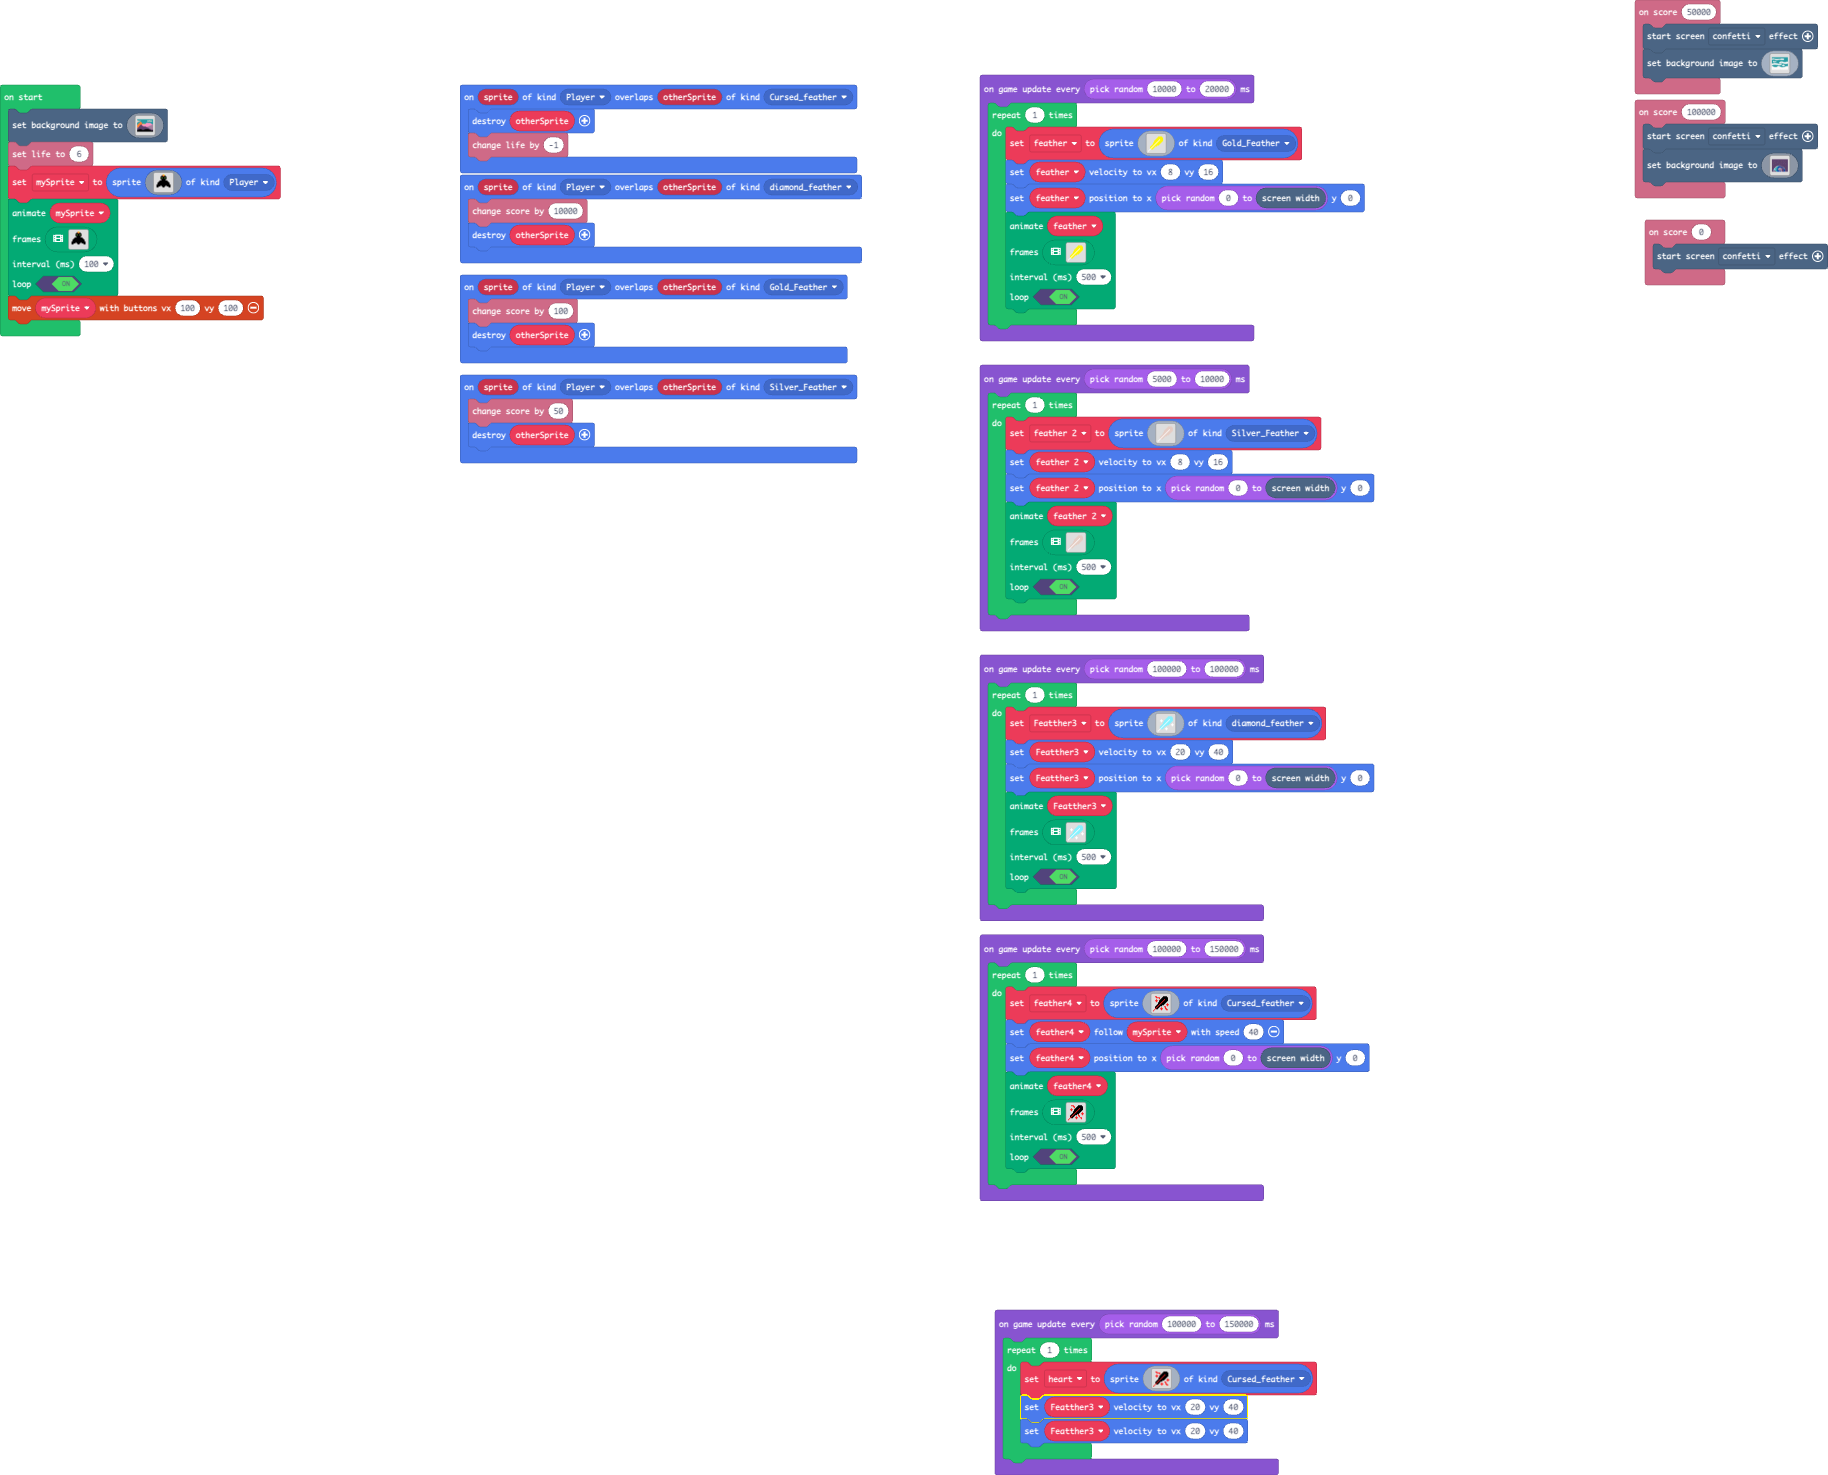
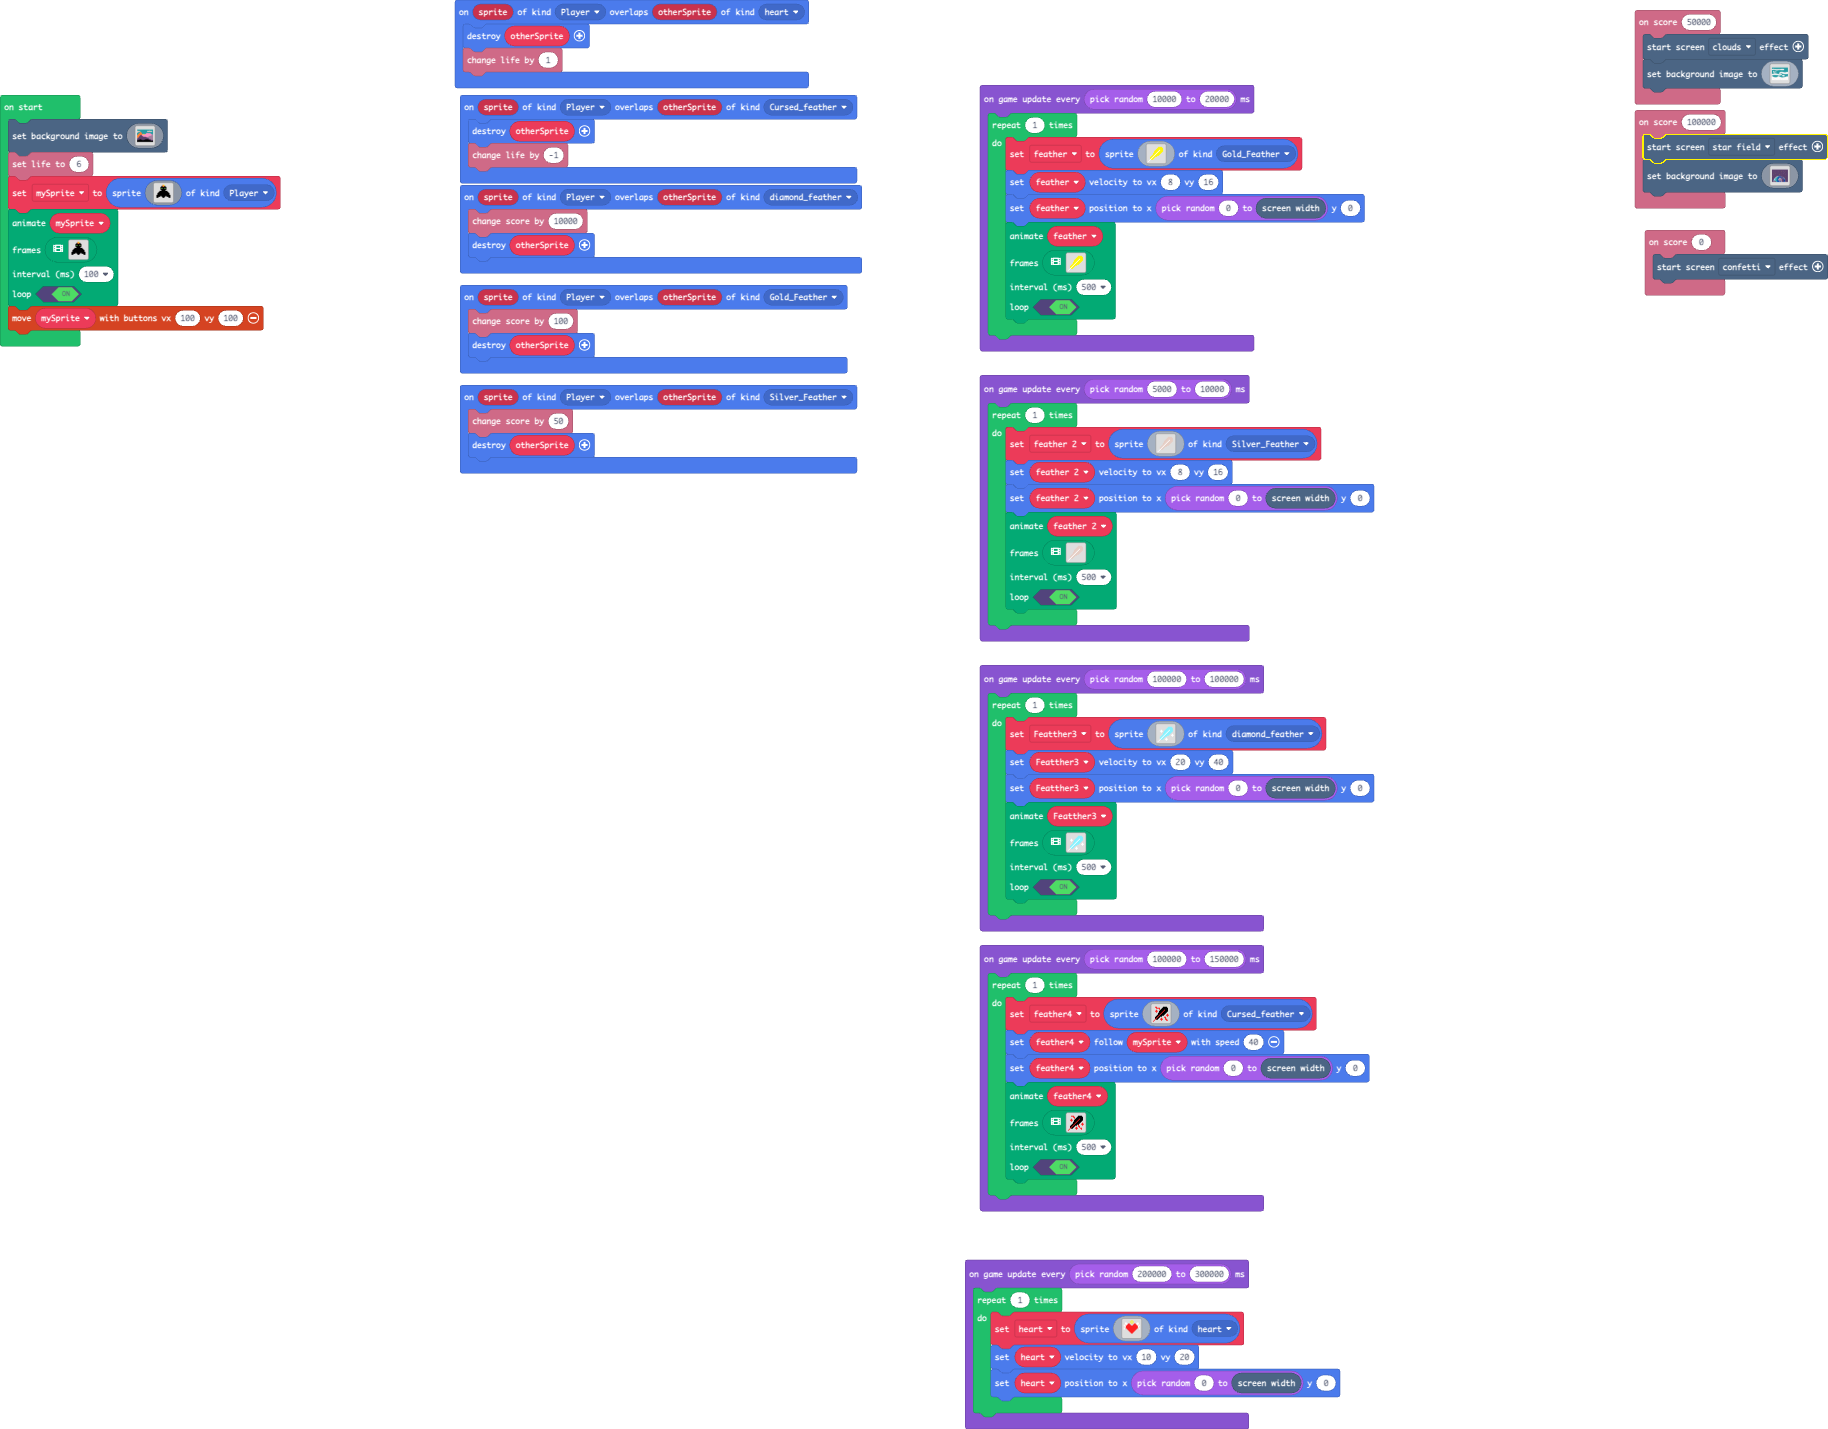
Update main.blocks, main.ts, images.g.jres, images.g.ts

diff --git a/images.g.ts b/images.g.ts
@@ -221,25 +221,6 @@ ffffffffffffffffffffffffffffffffffffffffffffffffffffffffffffffffffffffffffffffff
 . 2 . . . . . . 2 . . . . 2 2 . 
 2 . . . . . . . . . . . . . . . 
 `;
-            case "image8":
-            case "bird1":return img`
-. . . . . . . 5 5 . . . . . . . 
-. . . . . . 5 . . 5 . . . . . . 
-. 1 1 . . . . 5 5 . . . . 1 1 . 
-d 1 1 1 2 2 . . . . 2 2 1 1 1 d 
-1 d 1 2 2 2 2 . . 2 2 2 2 1 d 1 
-1 1 2 2 2 2 2 2 2 2 2 2 2 2 1 1 
-d 1 2 2 2 2 2 2 2 2 2 2 2 2 1 d 
-1 d 2 2 2 2 2 2 2 2 2 2 2 2 d 1 
-1 . . 2 2 2 2 2 2 2 2 2 2 . . 1 
-. . . . 2 2 2 2 2 2 2 2 . . . . 
-. . . . . 2 2 2 2 2 2 . . . . . 
-. . . . . . 2 2 2 2 . . . . . . 
-. . . . . . . 2 2 . . . . . . . 
-. . . . . . . . . . . . . . . . 
-. . . . . . . . . . . . . . . . 
-. . . . . . . . . . . . . . . . 
-`;
             case "dF,^j~:IXKpTWzC78f/g":
             case "clouds":return img`
 6666666666666666666666666666666666666666666666666666666666666666666666666666666666666666666666666666666666666666666666666666666666666666666666666666666666666666
@@ -485,6 +466,25 @@ ccccccccccccccccccc9eebbbbbbccccccccccccc999966666666668888888888888888888888ddd
[3 lines of base64/hex data omitted]
+`;
+            case "image8":
+            case "bird1":return img`
+. . . . . . . 5 5 . . . . . . . 
+. . . . . . 5 . . 5 . . . . . . 
+. 1 1 . . . . 5 5 . . . . 1 1 . 
+d 1 1 1 2 2 . . . . 2 2 1 1 1 d 
+1 d 1 2 2 2 2 . . 2 2 2 2 1 d 1 
+1 1 2 2 2 2 2 2 2 2 2 2 2 2 1 1 
+d 1 2 2 2 2 2 2 2 2 2 2 2 2 1 d 
+1 d 2 2 2 2 2 2 2 2 2 2 2 2 d 1 
+1 . . 2 2 2 2 2 2 2 2 2 2 . . 1 
+. . . . 2 2 2 2 2 2 2 2 . . . . 
+. . . . . 2 2 2 2 2 2 . . . . . 
+. . . . . . 2 2 2 2 . . . . . . 
+. . . . . . . 2 2 . . . . . . . 
+. . . . . . . . . . . . . . . . 
+. . . . . . . . . . . . . . . . 
+. . . . . . . . . . . . . . . . 
 `;
         }
         return null;

diff --git a/main.ts b/main.ts
@@ -3,14 +3,19 @@ namespace SpriteKind {
     export const Silver_Feather = SpriteKind.create()
     export const diamond_feather = SpriteKind.create()
     export const Cursed_feather = SpriteKind.create()
+    export const heart = SpriteKind.create()
 }
 info.onScore(100000, function () {
-    effects.confetti.startScreenEffect()
+    effects.starField.startScreenEffect()
     scene.setBackgroundImage(assets.image`clouds0`)
 })
 info.onScore(50000, function () {
-    effects.confetti.startScreenEffect()
+    effects.clouds.startScreenEffect()
     scene.setBackgroundImage(assets.image`clouds`)
+})
+sprites.onOverlap(SpriteKind.Player, SpriteKind.heart, function (sprite, otherSprite) {
+    sprites.destroy(otherSprite)
+    info.changeLifeBy(1)
 })
 sprites.onOverlap(SpriteKind.Player, SpriteKind.diamond_feather, function (sprite, otherSprite) {
     info.changeScoreBy(10000)
@@ -31,10 +36,10 @@ sprites.onOverlap(SpriteKind.Player, SpriteKind.Cursed_feather, function (sprite
     sprites.destroy(otherSprite)
     info.changeLifeBy(-1)
 })
-let heart: Sprite = null
 let feather4: Sprite = null
 let Featther3: Sprite = null
 let feather: Sprite = null
+let heart: Sprite = null
 let feather_2: Sprite = null
 scene.setBackgroundImage(assets.image`muotin range`)
 info.setLife(6)
@@ -57,6 +62,13 @@ game.onUpdateInterval(randint(5000, 10000), function () {
         500,
         true
         )
+    }
+})
+game.onUpdateInterval(randint(200000, 300000), function () {
+    for (let index = 0; index < 1; index++) {
+        heart = sprites.create(assets.image`bird1`, SpriteKind.heart)
+        heart.setVelocity(10, 20)
+        heart.setPosition(randint(0, scene.screenWidth()), 0)
     }
 })
 game.onUpdateInterval(randint(10000, 20000), function () {
@@ -96,12 +108,5 @@ game.onUpdateInterval(randint(100000, 150000), function () {
         500,
         true
         )
-    }
-})
-game.onUpdateInterval(randint(100000, 150000), function () {
-    for (let index = 0; index < 1; index++) {
-        heart = sprites.create(assets.image`black bride2`, SpriteKind.Cursed_feather)
-        Featther3.setVelocity(20, 40)
-        Featther3.setVelocity(20, 40)
     }
 })
